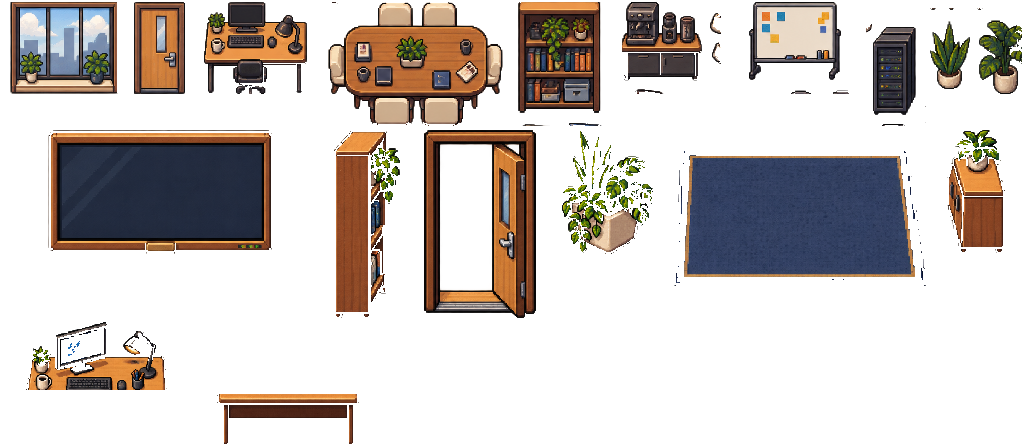
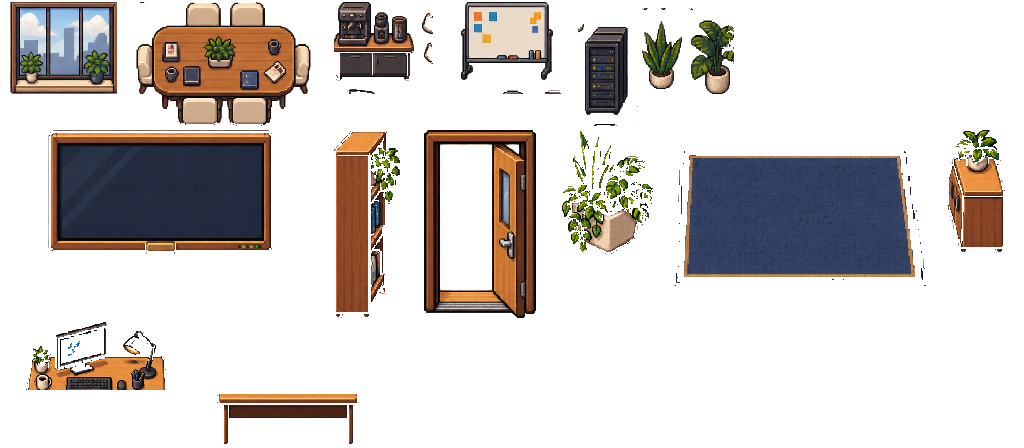
perf(web): streamline auth office rendering

Changed region(s): [[0.125, 0.0, 1.0, 0.2812]]

diff --git a/apps/web/src/features/auth-office-game/game/entities/employee-sprite.ts b/apps/web/src/features/auth-office-game/game/entities/employee-sprite.ts
@@ -23,7 +23,7 @@ export class EmployeeSprite extends Phaser.GameObjects.Sprite {
     public readonly skinId: string,
     private readonly bridge: OfficeEventBridge,
   ) {
-    super(scene, x, y, "employees", Number(skinId.split("-").at(-1) ?? 0) * 32);
+    super(scene, x, y, "employees");
     scene.add.existing(this);
     this.setOrigin(0.5, 1).setInteractive({ cursor: "pointer", useHandCursor: true });
     this.playActivity("idle");
@@ -46,11 +46,13 @@ export class EmployeeSprite extends Phaser.GameObjects.Sprite {
     animation: EmployeeAnimationName,
     direction: EmployeeFacingDirection = this.facing,
   ): void {
+    const key = resolveEmployeeAnimation(this.skinId, animation, direction);
+    if (this.facing === direction && this.anims.currentAnim?.key === key) return;
+
     this.targetAnimation = animation;
     this.facing = direction;
     this.setFlipX(shouldMirrorEmployee(direction));
-    const key = resolveEmployeeAnimation(this.skinId, animation, direction);
-    if (this.anims.currentAnim?.key !== key) this.play(key, true);
+    this.play(key, true);
   }
 
   replacePath(path: GridPoint[]): void {

diff --git a/apps/web/src/features/auth-office-game/game/scenes/preload-scene.ts b/apps/web/src/features/auth-office-game/game/scenes/preload-scene.ts
@@ -1,4 +1,5 @@
 import Phaser from "phaser";
+import { OFFICE_LOGICAL_HEIGHT, OFFICE_LOGICAL_WIDTH } from "../config";
 
 const ASSET_ROOT = "/assets/office-game/eidolon-default";
 
@@ -9,11 +10,17 @@ export class PreloadScene extends Phaser.Scene {
 
   preload(): void {
     const progress = this.add.graphics().setDepth(1000);
+    const progressWidth = OFFICE_LOGICAL_WIDTH * 0.3;
     this.load.on(Phaser.Loader.Events.PROGRESS, (value: number) => {
       progress
         .clear()
         .fillStyle(0xf1ddbd, 0.85)
-        .fillRect(448, 354, 384 * value, 8);
+        .fillRect(
+          (OFFICE_LOGICAL_WIDTH - progressWidth) / 2,
+          OFFICE_LOGICAL_HEIGHT / 2 - 6,
+          progressWidth * value,
+          8,
+        );
     });
     this.load.once(Phaser.Loader.Events.COMPLETE, () => progress.destroy());
     this.load.tilemapTiledJSON("office-map", `${ASSET_ROOT}/maps/office.json`);

diff --git a/apps/web/src/index.css b/apps/web/src/index.css
@@ -81,15 +81,6 @@ a[href],
     22px 22px;
 }
 
-.auth-grid {
-  background-image:
-    linear-gradient(135deg, color-mix(in oklch, var(--primary) 7%, transparent), transparent 44%),
-    radial-gradient(var(--grid-dot) 1px, transparent 1px);
-  background-size:
-    auto,
-    22px 22px;
-}
-
 .auth-world-shell {
   isolation: isolate;
   color: #fff4da;
@@ -184,7 +175,6 @@ a[href],
     inset 0 0 0 1px rgb(127 166 184 / 24%),
     8px 8px 0 rgb(43 33 48 / 88%),
     16px 16px 36px rgb(0 0 0 / 34%);
-  backdrop-filter: blur(14px);
 }
 
 .auth-control-panel::after {
@@ -204,8 +194,6 @@ a[href],
 
 .auth-office-frame {
   --auth-office-ink: #2b2130;
-  --auth-office-frame: #5b3a3a;
-  --auth-office-frame-light: #8b5a3c;
   position: absolute;
   inset: 0;
   width: 100%;

diff --git a/apps/web/src/features/auth-office-game/game/systems/zone-system.ts b/apps/web/src/features/auth-office-game/game/systems/zone-system.ts
@@ -1,4 +1,5 @@
 import type { OfficeEmployeeState } from "../../types/office-state";
+import type { EmployeeFacingDirection } from "./employee-presentation";
 import type { GridPoint } from "./navigation-system";
 
 export type OfficeZoneType =
@@ -26,7 +27,7 @@ export type OfficeInteractionPoint = {
   type: InteractionPointType;
   zoneId: string;
   tile: GridPoint;
-  facing: "up" | "down" | "left" | "right";
+  facing: EmployeeFacingDirection;
   characterDepthOffset?: number;
 };
 

diff --git a/scripts/process_auth_office_assets.py b/scripts/process_auth_office_assets.py
@@ -164,10 +164,7 @@ def make_object_atlas(
 ) -> tuple[Image.Image, dict[str, dict[str, int]]]:
     definitions = {
         "window": ((520, 16, 748, 216), (128, 96)),
-        "door": ((772, 12, 910, 216), (64, 96)),
-        "desk": ((14, 245, 250, 456), (128, 96)),
         "meeting-table": ((858, 206, 1214, 450), (192, 128)),
-        "bookshelf": ((18, 622, 184, 846), (96, 128)),
         "coffee-station": ((382, 642, 588, 846), (128, 96)),
         "whiteboard": ((920, 636, 1156, 850), (128, 96)),
         "server-rack": ((1178, 610, 1324, 856), (64, 128)),
